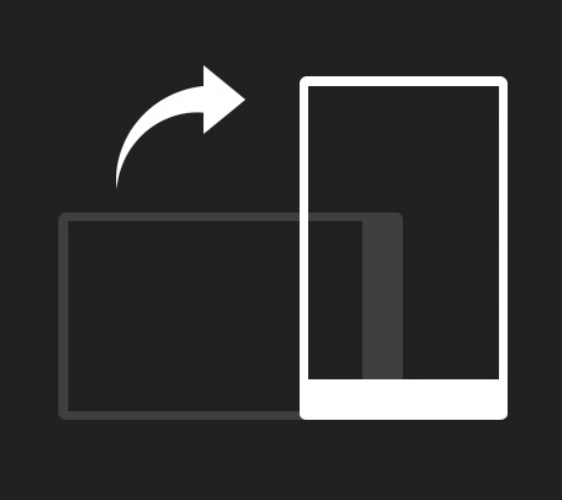
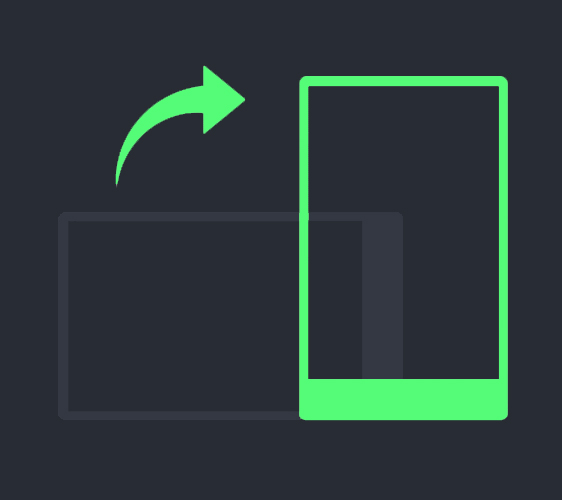
Turn device colors modified

Changed region(s): [[0.5142, 0.15, 0.9075, 0.84], [0.1815, 0.12, 0.4537, 0.36]]

diff --git a/src/css/App.css b/src/css/App.css
@@ -78,14 +78,14 @@ input {
 @media only screen and (hover: none) and (pointer: coarse) and (orientation: landscape) {
    .turnDevice{
       display: block;
-      background-color: #212121;
+      background-color: #282c34;
       position: fixed;
       top: 0;
       bottom: 0;
       left: 0;
       right: 0;
       z-index: 1;
-      color: white;
+      color: #54fc77;
    }
    .turnDevice img {
       height: 50vh;
